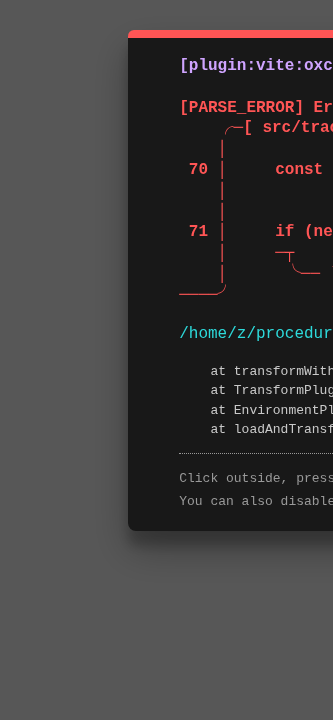
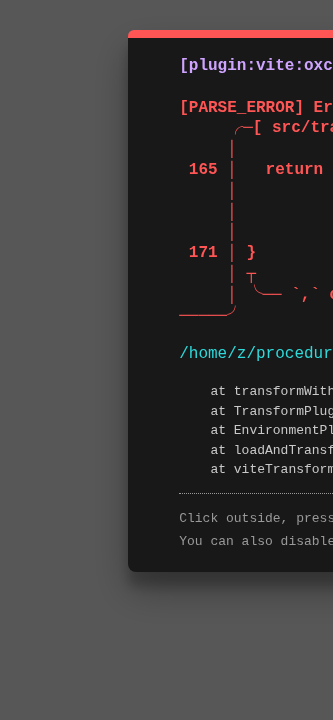
feat: wip

diff --git a/src/tracker.ts b/src/tracker.ts
@@ -1,32 +1,28 @@
 /**
  * Procedural
  */
-export interface Wait<TNumber extends number, TType extends 'any' | 'all'> {
-  dependencies: Set<ProceduralFunction<Wait<TNumber, TType>>>
-  duration: TNumber
-  type: TType
+export interface Wait<TNumber extends number> {
+  dependencies: Set<ProceduralFunction<Wait<TNumber>>> | undefined
+  duration: TNumber | undefined
 }
-export type WaitConstant<TNumber extends number> = Wait<TNumber, 'any'>
-export type WaitAny<TNumber extends number> = Wait<TNumber, 'any'>
-export type WaitAll<TNumber extends number> = Wait<TNumber, 'all'>
 /**
  * Procedural function. useRef().current can be read and written.
  */
-export type ProceduralFunction<TWait extends Wait<any, any>> = IterableIterator<TWait>
+export type ProceduralFunction<TWait extends Wait<any>> = IterableIterator<TWait>
 /**
  * Declarative function. useRef().current is write-only.
  */
 export type DeclarativeFunction<TNumber extends number, T> = (time: TNumber) => T | undefined
 export interface Ref<T> { current: T }
-export interface Task<TWait extends Wait<any, any>>
+export interface Task<TWait extends Wait<any>>
 {
   wait: () => TWait
   cancel: () => void
 }
 export interface ProceduralState<TNumber extends number> {
-  f: ProceduralFunction<Wait<TNumber, any>>
+  f: ProceduralFunction<Wait<TNumber>>
   totalCallsCount: number
-  wait: Wait<TNumber, any>
+  wait: Wait<TNumber>
 }
 export interface DeclarativeState<TNumber extends number> {
   f: DeclarativeFunction<TNumber, void>
@@ -54,20 +50,20 @@ export function useRef<T>(track: Track<any>, v: T): Ref<T> {
   return ref
 }
 
-export const sleep = <TNumber extends number>(dt: TNumber): WaitConstant<TNumber> => ({ dependencies: new Set<ProceduralFunction<Wait<TNumber, 'any'>>>(), duration: dt, type: 'any' })
+export const sleep = <TNumber extends number>(dt: TNumber): Wait<TNumber> => ({ dependencies: new Set<ProceduralFunction<Wait<TNumber>>>(), duration: dt })
 
 export function compile<TNumber extends number>(track: Track<TNumber>, time: TNumber = Infinity as TNumber): FixedTrack<TNumber>[] {
   const fixedTracks: FixedTrack<TNumber>[] = []
   track.time = 0 as TNumber
   // Call next() of the generator with least wait time
   while (track.proceduralStates.length > 0 && track.time <= time) {
-    const filteredStates = track.proceduralStates.filter(s => s.wait.dependencies.size === 0)
+    const filteredStates = track.proceduralStates.filter(s => s.wait.duration !== undefined && s.wait.dependencies === undefined)
     if (filteredStates.length === 0) {
-      throw new Error('No procedural state any or all with no dependencies found.')
+      throw new Error('No procedural state with dependencies not specified and wait time specified found.')
     }
 
     // State with least wait time
-    const nextState = filteredStates.reduce((least, s) => s.wait.duration < least.wait.duration ? s : least)
+    const nextState = filteredStates.reduce((least, s) => (s.wait.duration! < least.wait.duration! ? s : least))
     if (nextState.wait.duration === Infinity) {
       throw new Error('No procedural state with fixed wait time found.')
     }
@@ -89,18 +85,12 @@ export function compile<TNumber extends number>(track: Track<TNumber>, time: TNu
     if (iteratorResult.done) {
       track.proceduralStates = track.proceduralStates.map(
         (s) => {
-          if (!s.wait.dependencies.has(nextState.f)) {
+          if (s.wait.dependencies === undefined || !s.wait.dependencies.has(nextState.f)) {
             return s
           }
-          // any -> remove all
-          else if (s.wait.type === 'any') {
-            return { ...s, wait: { ...s.wait, dependencies: new Set([]) } }
+          else {
+            return { ...s, wait: { ...s.wait, dependencies: undefined, duration: 0 as TNumber } }
           }
-          // all -> remove only f
-          else if (s.wait.type === 'all') {
-            return { ...s, wait: { ...s.wait, dependencies: new Set([...s.wait.dependencies].filter(d => d !== nextState.f)) } }
-          }
-          return s
         },
       )
     }
@@ -136,7 +126,7 @@ export function useCompiled<TNumber extends number>(track: Track<TNumber>, fixed
   fixedTrack.declarativeStates.filter(s => (time >= s.startTime) && (time < s.startTime + s.duration)).forEach(s => s.f((time - s.startTime) as TNumber))
 }
 
-export function runDeclarative<TNumber extends number>(track: Track<TNumber>, f: DeclarativeFunction<TNumber, void>, duration: TNumber): Task<WaitConstant<TNumber>> {
+export function runDeclarative<TNumber extends number>(track: Track<TNumber>, f: DeclarativeFunction<TNumber, void>, duration: TNumber): Task<Wait<TNumber>> {
   track.declarativeStates.push({ f, startTime: track.time, duration })
   return {
     cancel: () => {
@@ -146,46 +136,39 @@ export function runDeclarative<TNumber extends number>(track: Track<TNumber>, f:
   }
 }
 
-export function runProcedural<TNumber extends number>(track: Track<TNumber>, f: ProceduralFunction<Wait<TNumber, any>>): Task<WaitAny<TNumber>> {
+export function runProcedural<TNumber extends number>(track: Track<TNumber>, f: ProceduralFunction<Wait<TNumber>>): Task<Wait<TNumber>> {
   // Run immediately
-  track.proceduralStates.push({ f, wait: { dependencies: new Set(), duration: 0 as TNumber, type: 'any' }, totalCallsCount: 0 })
+  track.proceduralStates.push({ f, wait: { dependencies: undefined, duration: undefined }, totalCallsCount: 0 })
   return {
     cancel: () => {
       track.proceduralStates = track.proceduralStates.filter(s => s.f !== f)
     },
     wait: () => ({
       dependencies: new Set([f]),
-      type: 'any',
-      duration: 0 as TNumber,
+      duration: undefined,
     }),
   }
 }
 
-export function all<TNumber extends number>(tasks: Task<Wait<TNumber, any>>[]): Task<WaitAll<TNumber>> {
-  return {
-    cancel: () => tasks.forEach(t => t.cancel()),
-    wait: () => {
-      const waits = tasks.map(t => t.wait())
-      const dependencies = waits.reduce((s, w) => new Set([...s, ...w.dependencies]), new Set<ProceduralFunction<Wait<TNumber, any>>>())
-      return {
-        dependencies,
-        type: 'all',
-        duration: 0 as TNumber,
-      }
-    },
-  }
+export function all<TNumber extends number>(track: Track<TNumber>, tasks: Task<Wait<TNumber>>[]): Task<Wait<TNumber>> {
+  return runProcedural(
+    track,
+    (function* () {
+      yield* tasks.map(t => t.wait())
+    })(),
+  )
 }
 
-export function any<TNumber extends number>(tasks: Task<Wait<TNumber, any>>[]): Task<WaitAny<TNumber>> {
+export function any<TNumber extends number>(tasks: Task<Wait<TNumber>>[]): Task<Wait<TNumber>> {
   return {
     cancel: () => tasks.forEach(t => t.cancel()),
     wait: () => {
       const waits = tasks.map(t => t.wait())
-      const dependencies = waits.reduce((s, w) => new Set([...s, ...w.dependencies]), new Set<ProceduralFunction<Wait<TNumber, any>>>())
+      const dependencies = waits.reduce((s, w) => new Set([...s, ...w.dependencies]), new Set<ProceduralFunction<Wait<TNumber>>>())
+      const duration = waits.map(w => w.duration).reduce((d1, d2) => Math.min(d1 ?? (Infinity as TNumber), d2 ?? (Infinity as TNumber)), Infinity as TNumber)
       return {
         dependencies,
-        type: 'any',
-        duration: 0 as TNumber,
+        duration: duration === Infinity ? undefined : duration,
       }
     },
   }

diff --git a/test/index.spec.ts b/test/index.spec.ts
@@ -33,7 +33,7 @@ describe('index', () => {
           yield sleep(2)
           x.current = 2
         }
-        yield all([runProcedural(track, g()), runProcedural(track, h())]).wait()
+        yield all(track, [runProcedural(track, g()), runProcedural(track, h())]).wait()
       }
       runProcedural(track, f())
       const fixedTracks = compile(track)